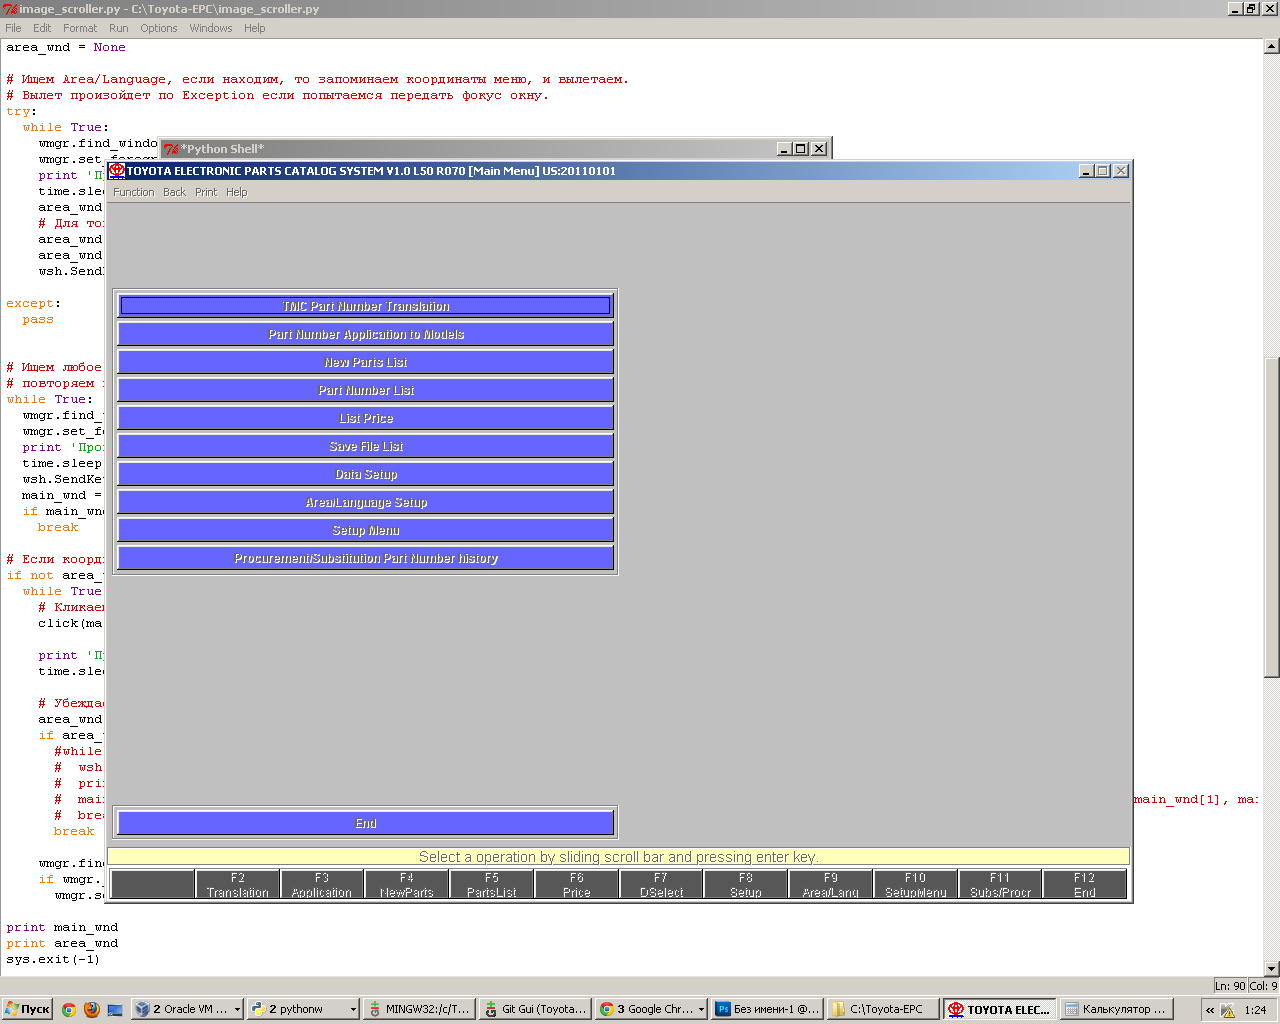
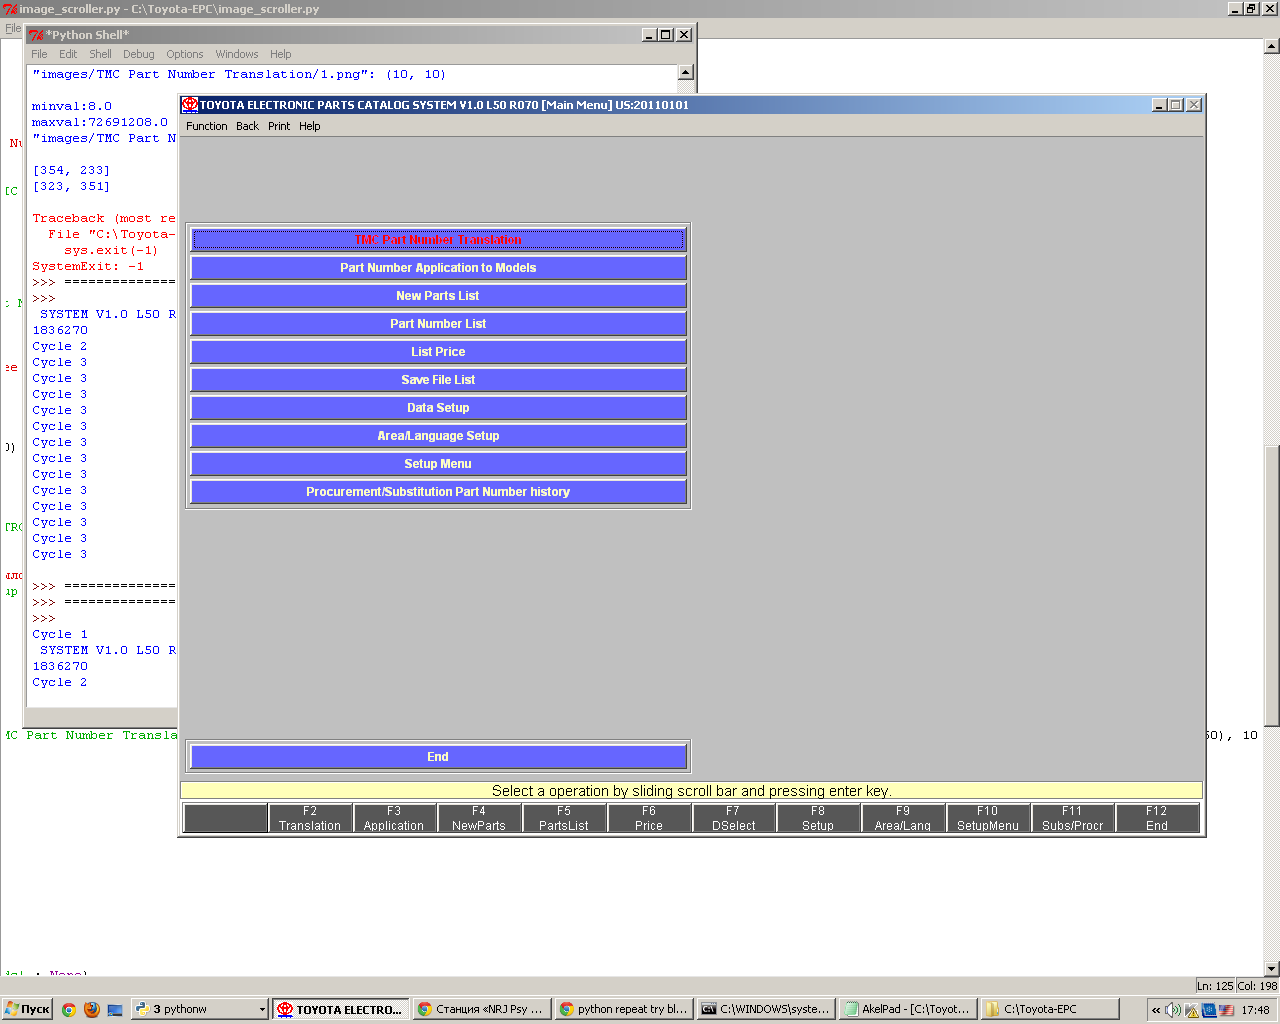
Резервная копия

diff --git a/image_scroller.py b/image_scroller.py
@@ -1,4 +1,5 @@
 #coding=UTF-8
+
 import sys
 import win32api, win32con
 import time, math, random, pdb
@@ -49,8 +50,22 @@ def search_vin_in_current_area(vin, area):
   print "Found " + vin + " in " + area
 
 
-wsh = comclt.Dispatch("WScript.Shell")
+
+
+
+
+
+
 wmgr = WindowMgr()
+
+# Проверяем запущено ли вообще приложение
+try:
+  wmgr.find_window_wildcard("TOYOTA ELECTRONIC PARTS CATALOG")
+  wmgr.set_foreground()
+except:
+  sys.exit("Toyota EPC doesn't running.")
+
+wsh = comclt.Dispatch("WScript.Shell")
 
 main_wnd = None
 area_wnd = None
@@ -61,52 +76,60 @@ try:
   while True:
     wmgr.find_window_wildcard(".*TOYOTA ELECTRONIC PARTS CATALOG(.*Area.*)")
     wmgr.set_foreground()
-    print 'Проверка на цикл 1'    
+    print 'Cycle 1'
     time.sleep(0.2)
-    area_wnd = find_match(None, ['images/Menu.png'], None, 100, True)
-    # Для того чтобы выравнять значения
-    area_wnd[0] = area_wnd[0] + 54
-    area_wnd[1] = area_wnd[1] + 322
+    area_wnd = find_match(None, ['images/Menu.png'], None, 100, False)
     wsh.SendKeys("{ESC}")
+    time.sleep(0.2)
     
 except:
   pass
-
 
 # Ищем любое окно и в нем ищем кнопку TMC Part Number...
 # повторяем пока не найдем
 while True:
   wmgr.find_window_wildcard(".*TOYOTA ELECTRONIC PARTS CATALOG(.*)")
   wmgr.set_foreground()
-  print 'Проверка на цикл 2'
-  time.sleep(0.2)  
+  print wmgr._title
+  print wmgr._handle
+  print 'Cycle 2'
+  #time.sleep(0.1)  
   wsh.SendKeys("{ESC}")
   main_wnd = find_match(None, ['images/TMC Part Number Translation/1.png', 'images/TMC Part Number Translation/2.png'], None, 100, False)  
   if main_wnd:
     break
-    
+
 # Если координаты Area/Language не найдены ранее
 if not area_wnd:
   while True:
-    # Кликаем на кнопке Area/Language
-    click(main_wnd[0] + 70, main_wnd[1] + 200)
-    
-    print 'Проверка на цикл 3'
-    time.sleep(0.2)
-    
-    # Убеждаемся что окно действительно открылось
-    area_wnd = find_match(None, ['images/Setup the necessary items.png'], None, 100, False)
-    if area_wnd:
-      #while True:
-      #  wsh.SendKeys("{ESC}")
-      #  print type(main_wnd[0] + 100)
-      #  main_wnd = find_match(None, ['images/TMC Part Number Translation/1.png', 'images/TMC Part Number Translation/2.png'], (main_wnd[0], main_wnd[1], main_wnd[0]+500, main_wnd[1]+500), 300, False)
-      #  break
-      break
-
-    wmgr.find_window_wildcard(".*TOYOTA ELECTRONIC PARTS CATALOG(.*Area.*)")
-    if wmgr._title.find('Area') >= 0:
+    try:
+      # Кликаем на кнопке Area/Language
+      click(main_wnd[0] + 70, main_wnd[1] + 200)
+      
+      print 'Cycle 3'
+      time.sleep(0.2)
+        
+      wmgr.find_window_wildcard(".*TOYOTA ELECTRONIC PARTS CATALOG(.*Area.*)")
       wmgr.set_foreground()
+          
+      # Убеждаемся что окно действительно открылось
+      area_wnd = find_match(None, ['images/Setup the necessary items.png'], None, 100, False)
+      
+      if area_wnd:
+        # Для того чтобы выравнять значения
+        area_wnd[0] = area_wnd[0] - 168
+        area_wnd[1] = area_wnd[1] - 322
+
+        while True:
+          wsh.SendKeys("{ESC}")
+          coords = find_match(None, ['images/TMC Part Number Translation/1.png', 'images/TMC Part Number Translation/2.png'], (main_wnd[0] - 10, main_wnd[1] - 10, main_wnd[0] + 200, main_wnd[1] + 50), 100, True)
+          if coords:
+            break
+        break
+
+    except:
+      pass
+
     
 print main_wnd
 print area_wnd

diff --git a/window_mgr.py b/window_mgr.py
@@ -28,6 +28,6 @@ class WindowMgr:
 
     def set_foreground(self):
         """put the window in the foreground"""
-        win32gui.ShowWindow(self._handle, win32con.SW_SHOW)
+        win32gui.ShowWindow(self._handle, win32con.SW_SHOWNORMAL)
         win32gui.SetForegroundWindow(self._handle)
         win32gui.SetFocus(self._handle)
